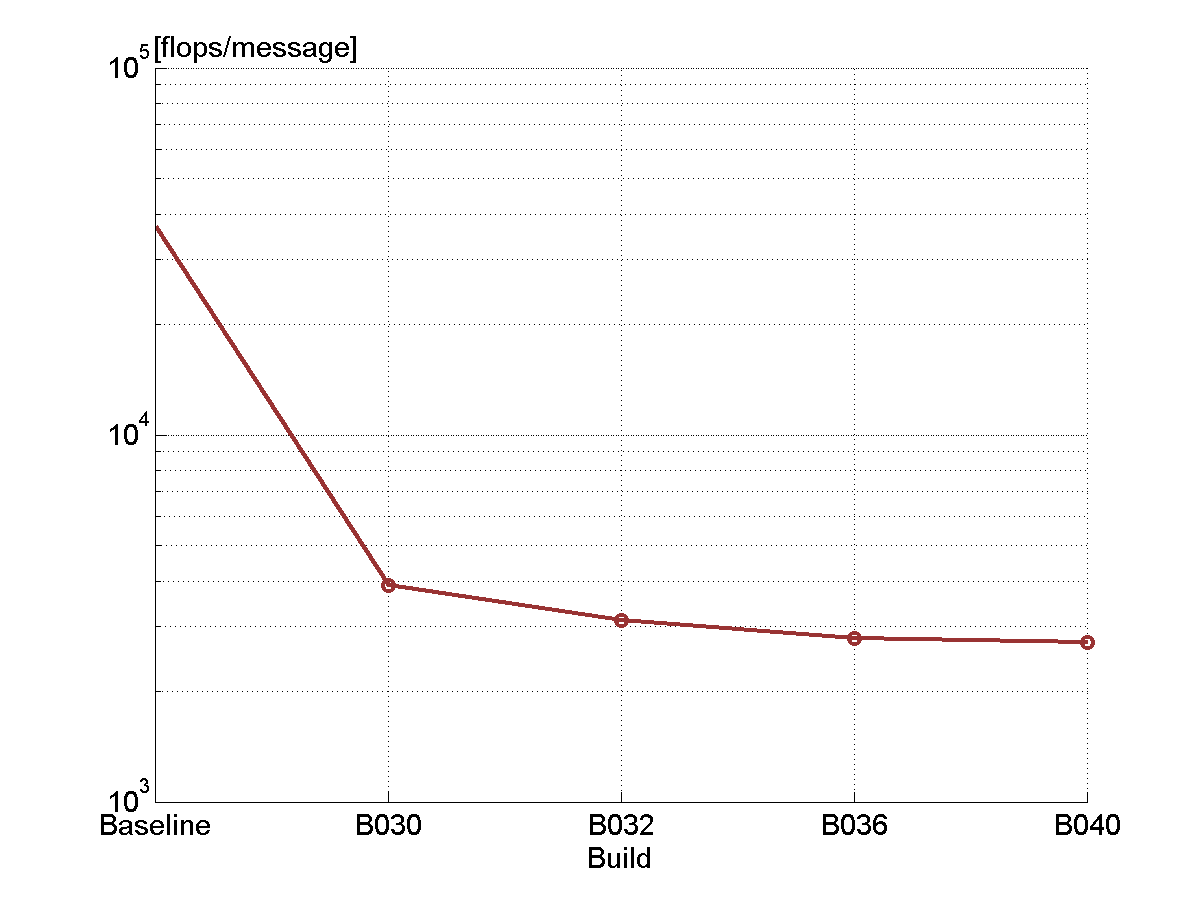
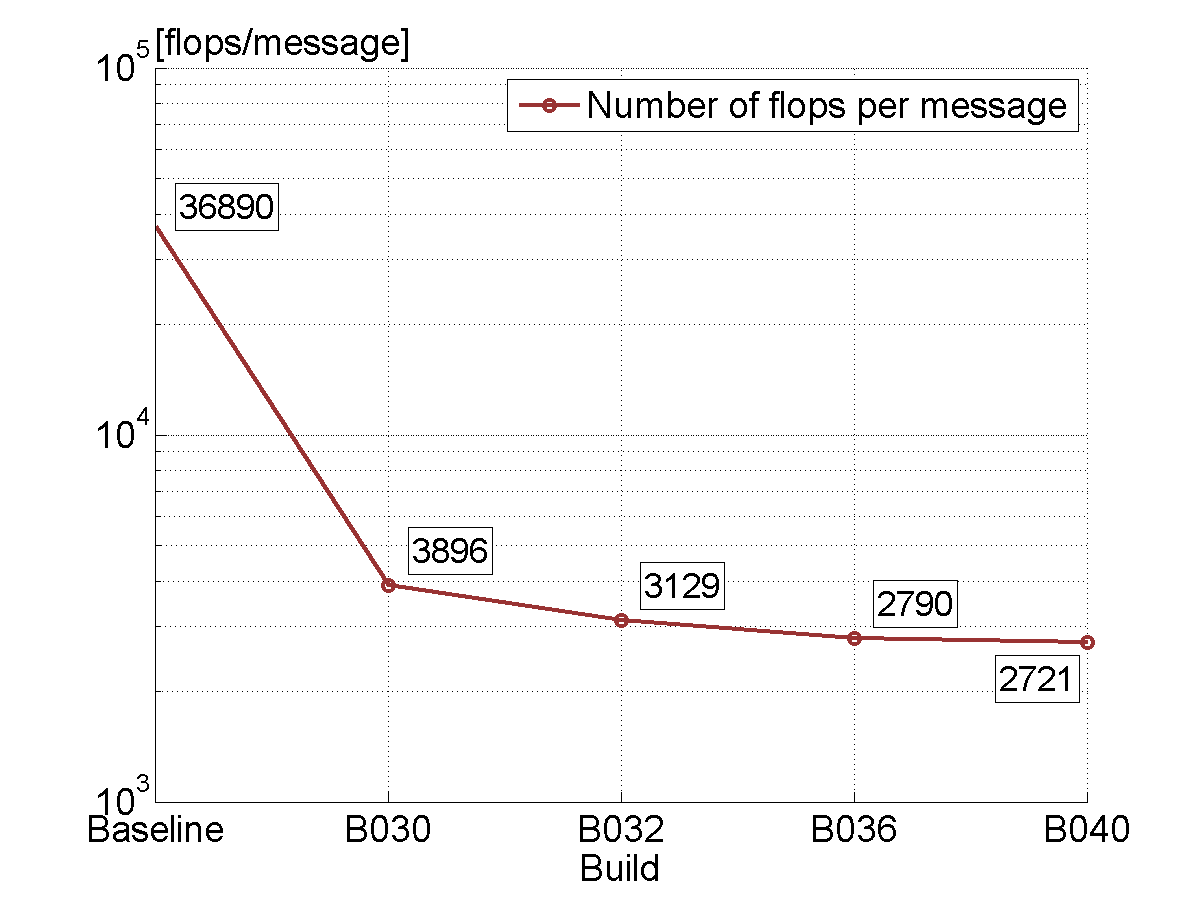
Fixed small labels in flops_per_message_graph

diff --git a/analysis/flops_per_message.m b/analysis/flops_per_message.m
@@ -76,13 +76,19 @@ data_points = data_points + 1;
 builds = [builds, {'B040'}];
 
 %% Flop/message plot styling
-fontsize = 14;
+fontsize = 18;
 figure; hold on; grid on;
 p=plot(data(:,1), data(:,2), '-o', 'linewidth', 2);
 set(p(1),'color',[0.6 0.2 0.2]);
-y = ylabel('[flops/message]','rot',0, 'fontsize', fontsize);
-set(y, 'position', [0.43,1.03*10^5,0]);
+y = ylabel('[flops/message]','rot',0, 'fontsize', fontsize, 'HorizontalAlignment', 'left');
+set(y, 'position', [0,1.03*10^5,0]);
 xlabel('Build', 'fontsize', fontsize);
+legend('Number of flops per message')
+text(data(1,1)+0.1,data(1,2),{num2str(data(1,2),'%.0f')},'VerticalAlignment','bottom','HorizontalAlignment','left', 'fontsize', fontsize-2, 'BackgroundColor',[1 1 1],'EdgeColor',[0 0 0],'Margin',2);
+text(data(2,1)+0.1,data(2,2)*1.1,{num2str(data(2,2),'%.0f')},'VerticalAlignment','bottom','HorizontalAlignment','left', 'fontsize', fontsize-2, 'BackgroundColor',[1 1 1],'EdgeColor',[0 0 0],'Margin',2);
+text(data(3,1)+0.1,data(3,2)*1.1,{num2str(data(3,2),'%.0f')},'VerticalAlignment','bottom','HorizontalAlignment','left', 'fontsize', fontsize-2, 'BackgroundColor',[1 1 1],'EdgeColor',[0 0 0],'Margin',2);
+text(data(4,1)+0.1,data(4,2)*1.1,{num2str(data(4,2),'%.0f')},'VerticalAlignment','bottom','HorizontalAlignment','left', 'fontsize', fontsize-2, 'BackgroundColor',[1 1 1],'EdgeColor',[0 0 0],'Margin',2);
+text(data(5,1)-0.05,data(5,2)*0.9,{num2str(data(5,2),'%.0f')},'VerticalAlignment','top','HorizontalAlignment','right', 'fontsize', fontsize-2, 'BackgroundColor',[1 1 1],'EdgeColor',[0 0 0],'Margin',2);
 set(gca,'XTick',0:1:(data_points-1));
 set(gca,'XTickLabel',builds, 'fontsize',fontsize);
 set(gca,'YScale','log')

diff --git a/report/04-results.tex b/report/04-results.tex
@@ -26,7 +26,7 @@ Despite all the optimizations some operations (e.g. retrieving the greatest resi
 \end{figure}
 
 \begin{figure}\centering
-    \includegraphics[scale=0.47, trim={2.1cm 6.5cm 1.1cm 8.5cm},clip]{graphics/flops_per_message.pdf}
+    \includegraphics[scale=0.47, trim={1.9cm 6.5cm 1.1cm 8.5cm},clip]{graphics/flops_per_message.pdf}
   \caption{Comparison of the number of floating point operations needed to update a single message for different builds of the program.\label{flops-per-message}}
 \end{figure}
 
